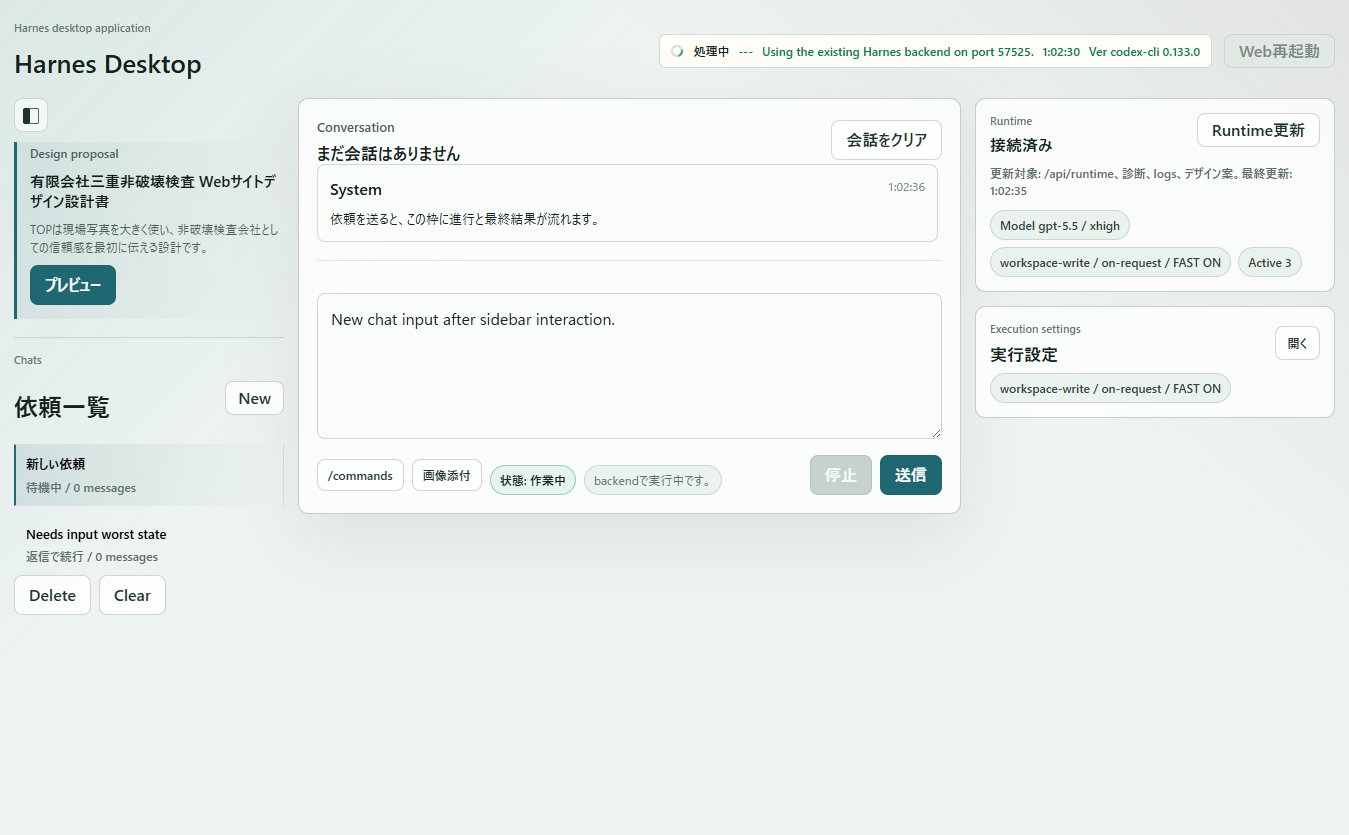
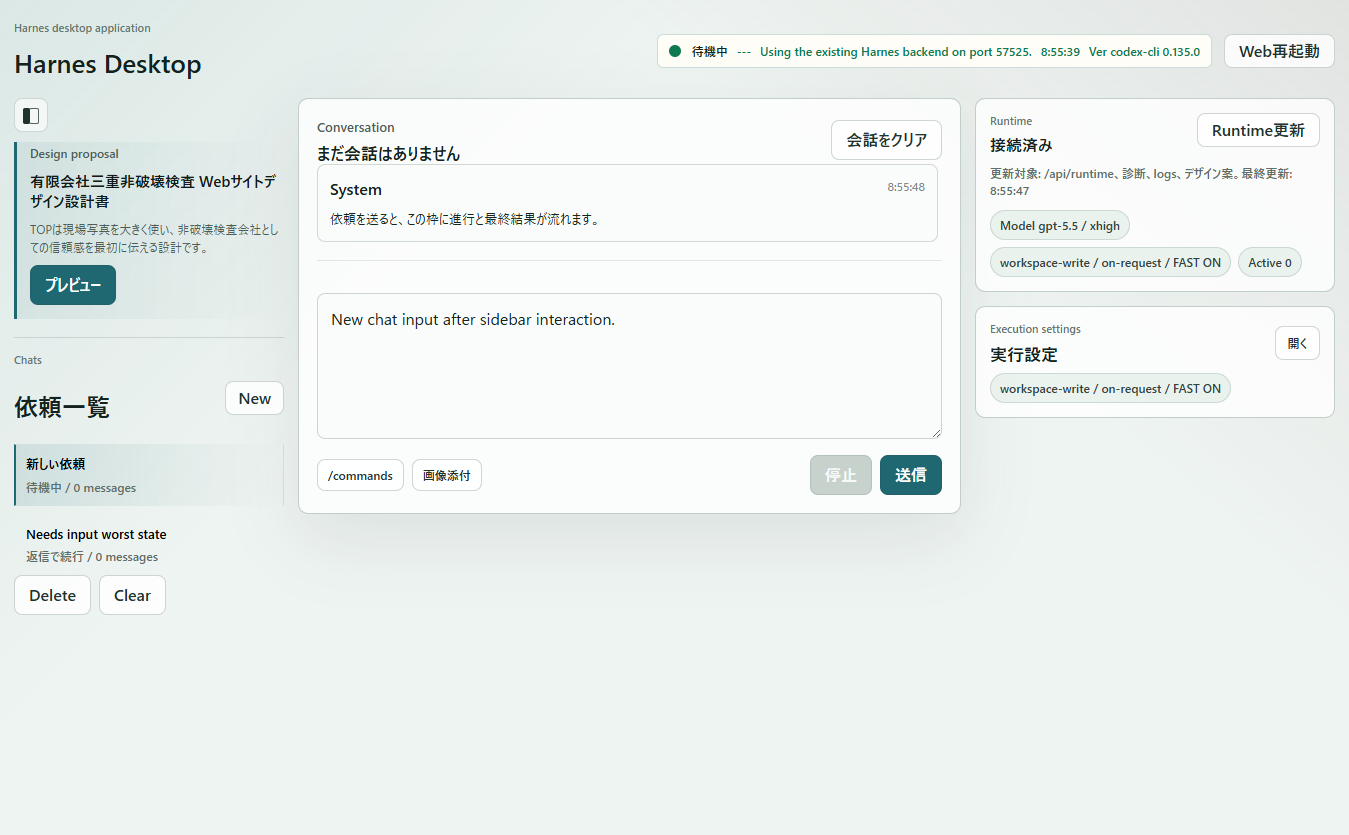
Remove duplicate Electron composer status

diff --git a/scripts/electron_harnesui_monkey_test.js b/scripts/electron_harnesui_monkey_test.js
@@ -32,7 +32,7 @@ async function setWindowSize(app, width, height) {
 async function inspectLayout(page) {
   return page.evaluate(() => {
     const doc = document.documentElement;
-    const clipped = Array.from(document.querySelectorAll("button, select, textarea, .panel, .chat-row, .message, .status-pill, .old-web-status, .runtime-refresh-note, .work-state-meta span, .metric-grid article, .attachment-panel, .attachment-item, .attachment-copy strong, .attachment-copy span"))
+    const clipped = Array.from(document.querySelectorAll("button, select, textarea, .panel, .chat-row, .message, .status-pill, .old-web-status, .runtime-refresh-note, .metric-grid article, .attachment-panel, .attachment-item, .attachment-copy strong, .attachment-copy span"))
       .map((element) => {
         const rect = element.getBoundingClientRect();
         const style = window.getComputedStyle(element);
@@ -161,7 +161,7 @@ async function main() {
         && smoke.settingsVisible
         && smoke.commandPaletteVisible
         && smoke.attachmentsVisible
-        && smoke.missionMetaVisible
+        && smoke.composerWorkStateRemoved
         && smoke.oldWebStatusVisible
         && smoke.runtimeRefreshExplained
         && smoke.attachmentRowsReady
@@ -180,7 +180,6 @@ async function main() {
       "Runtime",
       "Execution settings",
       "Conversation",
-      "状態",
       "待機中",
       "/commands",
       "Web再起動",
@@ -214,15 +213,9 @@ async function main() {
     if (conversationHeaderState.hasWorkStateInHeader || /状態|作業中|完了|待機中|返信で続行|中断|要確認|状態確認中/.test(conversationHeaderState.actionText)) {
       fail("electron_harnesui_monkey_test: conversation header must not duplicate the work-state summary", conversationHeaderState);
     }
-    const workStateText = await page.locator(".work-state-meta").innerText();
-    if (!workStateText.includes("状態") || !/(作業中|完了|待機中|返信で続行|中断|要確認|状態確認中)/.test(workStateText)) {
-      fail("electron_harnesui_monkey_test: composer metadata must expose a user-facing status", { workStateText });
-    }
-    if (/入力待ち|追加指示を送ると続行できます/.test(workStateText)) {
-      fail("electron_harnesui_monkey_test: composer metadata must not show the old needs_input wording", { workStateText });
-    }
-    if (/\b(running|stream ended|completed|idle|failed|interrupted|needs_input)\b/i.test(workStateText)) {
-      fail("electron_harnesui_monkey_test: composer metadata must not expose raw runtime status", { workStateText });
+    const composerWorkStateCount = await page.locator(".work-state-meta").count();
+    if (composerWorkStateCount !== 0) {
+      fail("electron_harnesui_monkey_test: composer must not duplicate the topbar work-state summary", { composerWorkStateCount });
     }
 
     await page.evaluate(() => {
@@ -242,14 +235,11 @@ async function main() {
     await page.reload({ waitUntil: "domcontentloaded" });
     await page.waitForFunction(() => {
       const smoke = window.__harnesElectronSmoke;
-      return Boolean(smoke?.runtimeOk && smoke?.runtimePanelVisible && smoke?.missionMetaVisible);
+      return Boolean(smoke?.runtimeOk && smoke?.runtimePanelVisible && smoke?.composerWorkStateRemoved);
     }, null, { timeout: 180000 });
-    const needsInputWorkStateText = await page.locator(".work-state-meta").innerText();
-    if (!needsInputWorkStateText.includes("状態") || !needsInputWorkStateText.includes("返信で続行")) {
-      fail("electron_harnesui_monkey_test: needs_input worst-state metadata must show reply-to-continue wording", { needsInputWorkStateText });
-    }
-    if (/入力待ち|追加指示を送ると続行できます/.test(needsInputWorkStateText)) {
-      fail("electron_harnesui_monkey_test: needs_input worst-state metadata must not show the old wording", { needsInputWorkStateText });
+    const needsInputComposerWorkStateCount = await page.locator(".work-state-meta").count();
+    if (needsInputComposerWorkStateCount !== 0) {
+      fail("electron_harnesui_monkey_test: needs_input state must not restore bottom composer work-state metadata", { needsInputComposerWorkStateCount });
     }
     const needsInputScreenshot = path.join(outDir, "needs-input-resend-ready.png");
     await page.screenshot({ path: needsInputScreenshot, fullPage: true });
@@ -257,7 +247,7 @@ async function main() {
     report.inspections.push({
       name: "needs-input-resend-ready",
       ...(await inspectLayout(page)),
-      workStateText: needsInputWorkStateText,
+      composerWorkStateCount: needsInputComposerWorkStateCount,
     });
 
     await page.locator("textarea").first().fill("Electron renderer smoke input. ".repeat(24));
@@ -265,15 +255,18 @@ async function main() {
       const buttons = Array.from(document.querySelectorAll("button"));
       const stop = buttons.find((button) => button.textContent && button.textContent.trim() === "停止");
       const send = buttons.find((button) => button.textContent && button.textContent.trim() === "送信");
-      const stateText = document.querySelector(".work-state-meta")?.textContent || "";
+      const composerWorkStatePresent = Boolean(document.querySelector(".work-state-meta"));
       return {
         stopDisabled: stop ? stop.disabled : null,
         sendDisabled: send ? send.disabled : null,
-        stateText,
+        composerWorkStatePresent,
       };
     });
     if (idleComposerState.stopDisabled !== true || idleComposerState.sendDisabled !== false) {
       fail("electron_harnesui_monkey_test: idle active chat with draft must allow send and keep stop disabled", idleComposerState);
+    }
+    if (idleComposerState.composerWorkStatePresent) {
+      fail("electron_harnesui_monkey_test: idle composer must not restore bottom work-state metadata", idleComposerState);
     }
     const fixturePath = path.join(outDir, "attachment-fixture.png");
[1 lines of base64/hex data omitted]

diff --git a/scripts/electron_harnesui_static_test.js b/scripts/electron_harnesui_static_test.js
@@ -109,7 +109,7 @@ mustInclude(main, "harnes:get-diagnostics", "Electron main");
 mustInclude(main, "operatorPanelsHidden", "Electron main smoke requires normal-state operator panels hidden");
 mustInclude(main, "sidebarVisible", "Electron main smoke requires visible sidebar by default");
 mustInclude(main, "proposalDockVisible", "Electron main smoke requires left proposal dock");
-mustInclude(main, "missionMetaVisible", "Electron main smoke requires compact mission state");
+mustInclude(main, "composerWorkStateRemoved", "Electron main smoke requires composer work state removal");
 mustInclude(main, "oldWebStatusVisible", "Electron main smoke requires old-web status strip");
 mustInclude(main, "topbarStatusValid", "Electron main smoke accepts either idle or live-busy topbar state");
 mustInclude(main, 'runtimePanelLabel === "接続済み"', "Electron main smoke requires connected runtime panel label");
@@ -170,7 +170,6 @@ mustInclude(app, "command-menu", "Electron renderer commands dropdown");
 mustInclude(app, "insertCommandText", "Electron renderer command dropdown insertion");
 mustInclude(app, "hidden-file-input", "Electron renderer hides native file picker chrome");
 mustInclude(app, "attachment-trigger", "Electron renderer attachment trigger button");
-mustInclude(app, "missionMetaItems", "Electron renderer compact mission metadata");
 mustInclude(app, "workStateForChat", "Electron renderer user-facing work state");
 mustInclude(app, "返信で続行", "Electron renderer resend-ready needs_input label");
 mustInclude(app, "失敗ではありません。必要な情報や判断を返信すると続きから再開できます。", "Electron renderer resend-ready needs_input detail");
@@ -204,7 +203,9 @@ mustInclude(app, 'onClick={clearActiveChat} disabled={Boolean(activeChatRequest)
 mustInclude(app, "activeRequests.some((request) => request.chatId === chat.id)", "Electron renderer sidebar marks only the running chat");
 mustNotInclude(app, "const [activeRequest, setActiveRequest]", "Electron renderer must not keep a single global active request");
 mustNotInclude(app, "disabled={!activeRequest}", "Electron renderer stop button must not follow a global active request");
-mustInclude(app, "状態: ${activeChatWorkState.label}", "Electron renderer composer work state label");
+mustNotInclude(app, "missionMetaItems", "Electron renderer must not render composer mission metadata");
+mustNotInclude(app, "状態: ${activeChatWorkState.label}", "Electron renderer must not render bottom composer work state label");
+mustNotInclude(app, "mission-meta work-state-meta", "Electron renderer must not render bottom composer work state");
 mustNotInclude(app, "work-state-pill", "Electron renderer must not render removed duplicate conversation work state pill");
 const conversationActionsMatch = app.match(/<div className="conversation-actions">([\s\S]*?)<\/div>\s*<\/div>\s*<div className="timeline">/);
 if (!conversationActionsMatch) fail("Electron renderer conversation header actions block not found");
@@ -213,7 +214,7 @@ mustInclude(conversationActionsBlock, "会話をクリア", "Electron renderer c
 mustNotInclude(conversationActionsBlock, "work-state-meta", "Electron renderer must not restore duplicate work state in the conversation header");
 mustNotInclude(conversationActionsBlock, "missionMetaItems", "Electron renderer must not render mission metadata in the conversation header");
 mustNotInclude(conversationActionsBlock, "activeChatWorkState", "Electron renderer must not render active chat status in the conversation header");
-mustInclude(app, "missionMetaVisible", "Electron smoke proves compact mission state visibility");
+mustInclude(app, "composerWorkStateRemoved", "Electron smoke proves bottom work state removal");
 mustInclude(app, "oldWebStatusVisible", "Electron smoke proves old-web status visibility");
 mustInclude(app, "oldWebStatusLabel", "Electron smoke proves the topbar status label text");
 mustInclude(app, "topbarBusy", "Electron smoke distinguishes idle and live-busy topbar states");
@@ -317,7 +318,8 @@ mustInclude(styles, "animation: none", "Electron CSS ready backend indicator mus
 mustInclude(styles, ".primary:disabled", "Electron CSS must make disabled primary/danger controls visually inactive");
 mustInclude(styles, ".danger-button:disabled", "Electron CSS must make disabled stop controls visually inactive");
 mustInclude(styles, ".old-web-version", "Electron CSS visible version label");
-mustInclude(styles, ".work-state-meta", "Electron CSS composer work state metadata");
+mustNotInclude(styles, ".work-state-meta", "Electron CSS must not keep removed composer work state metadata");
+mustNotInclude(styles, ".mission-meta", "Electron CSS must not keep removed composer mission metadata");
 mustInclude(styles, ".command-strip", "Electron CSS command palette layout");
 mustInclude(styles, ".command-menu", "Electron CSS hidden commands dropdown");
 mustInclude(styles, "bottom: calc(100% + 8px)", "Electron CSS command dropdown opens upward from composer");

diff --git a/scripts/electron_harnesui_status_send_reenable_test.js b/scripts/electron_harnesui_status_send_reenable_test.js
@@ -26,7 +26,7 @@ async function getSendButtonState(page) {
     const workState = document.querySelector(".work-state-meta");
     const root = document.documentElement;
     const activeText = document.body.innerText;
-    const clipped = Array.from(document.querySelectorAll("button, select, textarea, .panel, .chat-row, .message, .status-pill, .old-web-status, .runtime-refresh-note, .work-state-meta span, .attachment-panel, .attachment-item, .attachment-copy strong, .attachment-copy span"))
+    const clipped = Array.from(document.querySelectorAll("button, select, textarea, .panel, .chat-row, .message, .status-pill, .old-web-status, .runtime-refresh-note, .attachment-panel, .attachment-item, .attachment-copy strong, .attachment-copy span"))
       .map((element) => {
         const rect = element.getBoundingClientRect();
         const style = window.getComputedStyle(element);
@@ -80,7 +80,7 @@ async function getSendButtonState(page) {
       scrollWidth: root ? root.scrollWidth : null,
       stopDisabled: stop ? stop.disabled : null,
       textareaValue: textarea ? textarea.value : "",
-      workStateText: workState ? workState.textContent || "" : "",
+      composerWorkStateRemoved: !workState,
       hasCodexStatus: activeText.includes(">_ OpenAI Codex"),
       hasFastStatus: activeText.includes("Fast mode:"),
     };
@@ -142,6 +142,7 @@ async function main() {
     }, null, { timeout: 10000 });
     let state = await getSendButtonState(page);
     if (state.sendDisabled !== false) fail("Electron send button must remain pressable after /status returns", state);
+    if (state.composerWorkStateRemoved !== true) fail("Electron bottom composer work state must remain removed after /status returns", state);
     if (state.sendButtonClipped !== false) fail("Electron send button copy is clipped after /status returns", state);
     if (state.horizontalOverflow !== false) fail("Electron /status returned state has horizontal overflow", state);
     if (state.clipped.length) fail("Electron /status returned state has clipped UI copy", state);
@@ -162,6 +163,7 @@ async function main() {
     state = await getSendButtonState(page);
     if (!state.hasCodexStatus || !state.hasFastStatus) fail("Electron slash command transcript did not include both command outputs", state);
     if (state.sendDisabled !== false) fail("Electron send button must remain pressable after /fast status returns", state);
+    if (state.composerWorkStateRemoved !== true) fail("Electron bottom composer work state must remain removed after /fast status returns", state);
     if (state.sendButtonClipped !== false) fail("Electron send button copy is clipped after /fast status returns", state);
     if (state.horizontalOverflow !== false) fail("Electron /fast status returned state has horizontal overflow", state);
     if (state.clipped.length) fail("Electron /fast status returned state has clipped UI copy", state);

diff --git a/desktop/harnes-electron/src/App.tsx b/desktop/harnes-electron/src/App.tsx
@@ -729,7 +729,7 @@ export default function App() {
     const proposalDockVisible = isVisible(".proposal-dock");
     const runtimePanelVisible = isVisible(".runtime-panel");
     const settingsVisible = isVisible(".settings-panel");
-    const missionMetaVisible = isVisible(".work-state-meta");
+    const composerWorkStateRemoved = !document.querySelector(".work-state-meta");
     const oldWebStatusVisible = isVisible(".old-web-status");
     const oldWebStatusLabel = compactText(document.querySelector(".old-web-status strong")?.textContent, "");
     const runtimePanelLabel = compactText(document.querySelector(".runtime-panel h2")?.textContent, "");
@@ -764,7 +764,7 @@ export default function App() {
       operatorPanelsHidden: !restartVisible && !workspaceVisible && !diagnosticsVisible && !logsVisible,
       commandPaletteVisible: true,
       attachmentsVisible: true,
-      missionMetaVisible,
+      composerWorkStateRemoved,
       oldWebStatusVisible,
       oldWebStatusLabel,
       activeExec,
@@ -964,15 +964,7 @@ export default function App() {
     }
   }, [activeChat, activeChatRequest, attachments, mission, patchChat, runtime?.activeAgent, runtime?.workspaceRoot, settings]);
 
-  const activeChatWorkState = workStateForChat(activeChat, {
-    activeForChat: Boolean(activeChatRequest),
-    runtimeBusy: activeExec > 0 && !hasActiveRequests,
-  });
   const canSubmitMission = Boolean(activeChat && !activeChatRequest);
-  const missionMetaItems = useMemo(() => {
-    if (!activeChat) return [];
-    return [`状態: ${activeChatWorkState.label}`, activeChatWorkState.detail].filter(Boolean);
-  }, [activeChat, activeChatWorkState.detail, activeChatWorkState.label]);
 
   const handleMissionKeyDown = useCallback((event: ReactKeyboardEvent<HTMLTextAreaElement>) => {
     if (event.key !== "Enter" || (!event.ctrlKey && !event.metaKey) || event.repeat || event.nativeEvent.isComposing) return;
@@ -1204,11 +1196,6 @@ export default function App() {
                   onChange={(event) => void handleAttachmentPick(event.currentTarget.files)}
                 />
                 <button className="secondary small-button attachment-trigger" type="button" onClick={() => fileInputRef.current?.click()}>画像添付</button>
-                {missionMetaItems.length ? (
-                  <div className={`mission-meta work-state-meta ${activeChatWorkState.tone}`} aria-live="polite">
-                    {missionMetaItems.map((item) => <span key={item}>{item}</span>)}
-                  </div>
-                ) : null}
               </div>
               <div className="composer-submit-actions">
                 <button className="danger-button" type="button" onClick={stopActiveRequest} disabled={!activeChatRequest}>停止</button>

diff --git a/desktop/harnes-electron/src/styles.css b/desktop/harnes-electron/src/styles.css
@@ -544,16 +544,14 @@ textarea {
 
 .toggle-row,
 .composer-toolbar,
-.sidebar-actions,
-.mission-meta {
+.sidebar-actions {
   display: flex;
   flex-wrap: wrap;
   gap: 8px;
 }
 
 .toggle-row,
-.composer-toolbar,
-.mission-meta {
+.composer-toolbar {
   margin-top: 10px;
 }
 
@@ -576,26 +574,6 @@ textarea {
 
 .composer-submit-actions {
   margin-left: auto;
-}
-
-.work-state-meta.working span:first-child {
-  border-color: rgba(31, 104, 114, 0.34);
-  background: rgba(226, 243, 238, 0.94);
-}
-
-.work-state-meta.completed span:first-child {
-  border-color: rgba(15, 122, 82, 0.28);
-  background: rgba(229, 244, 235, 0.92);
-}
-
-.work-state-meta.attention span:first-child {
-  border-color: rgba(155, 47, 68, 0.28);
-  background: rgba(252, 235, 239, 0.9);
-}
-
-.work-state-meta span:first-child {
-  color: #17251f;
-  font-weight: 900;
 }
 
 .command-strip {
@@ -676,10 +654,6 @@ textarea {
   width: 100%;
 }
 
-.mission-meta {
-  margin-left: 0;
-}
-
 .attachment-panel {
   display: grid;
   gap: 8px;
@@ -754,7 +728,6 @@ textarea {
 }
 
 .attachment-list > span,
-.mission-meta span,
 .chip-row span,
 .status-chip {
   border: 1px solid rgba(39, 73, 68, 0.16);
@@ -1001,7 +974,6 @@ textarea {
 }
 
 .chat-row span,
-.mission-meta span,
 .detail-list dt,
 .detail-list dd,
 .log-row span,

diff --git a/desktop/harnes-electron/src/types.ts b/desktop/harnes-electron/src/types.ts
@@ -188,7 +188,7 @@ declare global {
       operatorPanelsHidden?: boolean;
       commandPaletteVisible?: boolean;
       attachmentsVisible?: boolean;
-      missionMetaVisible?: boolean;
+      composerWorkStateRemoved?: boolean;
       oldWebStatusVisible?: boolean;
       oldWebStatusLabel?: string;
       activeExec?: number;
